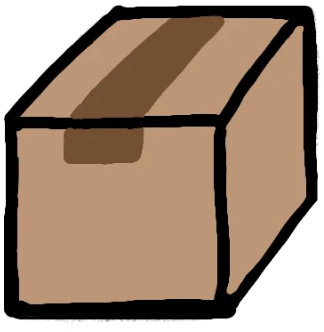
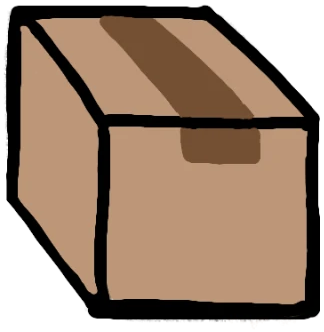
Add steam to trains and fix small UI bugs

diff --git a/src/components/game/GameScreen.tsx b/src/components/game/GameScreen.tsx
@@ -1,6 +1,7 @@
 import { useEffect, useMemo, useState, useRef } from 'react';
 import { Link } from '@tanstack/react-router';
-import { ArrowLeft, Pause, Play, Volume2, VolumeX, Factory, Pickaxe, Trees, Fuel, TrainFront, Undo2, Trash2, Plus, Minus, HelpCircle, X, Package, Coins, Waypoints, ArrowRight, FileChartColumn, ZoomIn, ZoomOut, RotateCw, Clock, Ship, Scan, Network, Mountain, Waves } from 'lucide-react';
+import { ArrowLeft, Pause, Play, Volume2, VolumeX, Factory, Pickaxe, Trees, Fuel, TrainFront, Undo2, Trash2, Plus, Minus, HelpCircle, X, Package, Coins, Waypoints, ArrowRight, FileChartColumn, ZoomIn, ZoomOut, RotateCw, Clock, Ship, Scan, Mountain, Waves } from 'lucide-react';
+import transferSprite from '@/assets/building-transfer.png';
 import { CONFIG } from '@/game/config';
 import { lineColorClass } from '@/shared/line-colors';
 import type { Charter, NetworkMetrics } from '@/shared/types';
@@ -28,14 +29,14 @@ export function GameScreen({charter}:{charter:Charter}){
   <canvas ref={dragImageRef} width={1} height={1} className="native-drag-blank" aria-hidden="true"/>
   <div className="map-stage"><canvas aria-label="Industrial railway map" ref={s.canvasRef} onClick={s.onClick} onPointerDown={s.onPointerDown} onPointerMove={s.onPointerMove} onPointerUp={s.onPointerUp} onPointerCancel={s.cancelTrack} onMouseLeave={s.onLeave} onDragOver={s.onDragOver} onDrop={s.onDrop} className="factory-canvas"/></div>
   <header className="map-header hud">
-   <div className="map-identity"><Link to="/" aria-label="Back to maps" title="Back to maps" className="map-back"><ArrowLeft size={19}/></Link><div><h1>Brassworks Transit</h1><p>{charter.name}</p></div></div>
+   <div className="map-identity"><Link to="/" aria-label="Back to maps" title="Back to maps" className="map-back"><ArrowLeft size={19}/></Link><div><h1>Back On Track</h1><p>{charter.name}</p></div></div>
     <div className="map-counters"><span title="Credits"><Coins size={18}/><strong>{g?.credits??0}</strong></span><span title="Products"><ArtIcon kind="crate" size={18}/><strong>{g?.products??0}</strong></span><span className="week-counter"><ArtIcon kind="clock" size={18}/><strong>Week {g?.week??1}</strong><span>{Math.max(0,Math.ceil(CONFIG.week.seconds-(g?.weekTime??0)))}s</span><progress className="factory-progress" value={g?.weekTime??0} max={CONFIG.week.seconds}/></span></div>
    <div className="map-actions">{route&&<><span className={`route-indicator ${lineColorClass(g?.railLines().findIndex(l=>l.id===route.id)??0)}`} title={route.name}/><div className="line-stock-controls" aria-label="Line trains"><Btn title="Remove locomotive" disabled={!route.trains.length} onClick={()=>s.act(gg=>gg.removeTrain(route.id))}><Minus size={13}/></Btn><div className="line-stock-count"><ArtIcon kind="train" size={18}/><small aria-label="Trains on selected line">{route.trains.length}</small></div><Btn title="Add locomotive" disabled={route.stops.length<2||!g?.inv.locomotives} onClick={()=>s.act(gg=>gg.addTrain(route.id))}><Plus size={13}/></Btn></div><div className="line-stock-controls" aria-label="Line carriages"><Btn title="Remove wagon" disabled={!route.carriages} onClick={()=>s.act(gg=>gg.removeCarriage(route.id))}><Minus size={13}/></Btn><div className="line-stock-count"><ArtIcon kind="carriage" size={18}/><small aria-label="Carriages on selected line">{route.carriages}</small></div><Btn title="Add wagon" disabled={route.stops.length<2||!g?.inv.carriages} onClick={()=>s.act(gg=>gg.addCarriage(route.id))}><Plus size={13}/></Btn></div></>}<Btn title={`Buy train · ${CONFIG.factory.locomotiveCost} credits`} aria-label="Buy train" className="buy-train" disabled={!g||g.credits<CONFIG.factory.locomotiveCost} onClick={()=>s.act(gg=>gg.buyTrain(),"Train added to your supplies.")}><ArtIcon kind="train" size={17}/><Coins size={12}/><small>{CONFIG.factory.locomotiveCost}</small></Btn>
 <Btn title="Sell purchased spare train" aria-label="Sell purchased train" disabled={!g?.trainSale} onClick={s.sellTrain}><ArtIcon kind="train" size={17}/><Minus size={12}/><Coins size={12}/></Btn><Btn title="Undo most recent action" disabled={!g?.canUndo} onClick={s.undo}><Undo2 size={18}/></Btn><Btn title={selected&&selected.type!=='company'?`Remove collector · ${g?.collectorRefund(selected.index)??0} credits refunded`:"Remove selected transport connection"} aria-label="Remove selected item" disabled={selected&&selected.type!=='company'?g?.phase==='complete':!s.selectedTrack||!g?.canRemoveSegment(s.selectedTrack.line,s.selectedTrack.segment)} onClick={s.deleteTrack}><Trash2 size={18}/></Btn><Btn title={s.paused?'Resume':'Pause'} onClick={()=>s.setPaused(!s.paused)}>{s.paused?<Play size={19}/>:<Pause size={19}/>}</Btn><Btn title="Simulation speed" onClick={()=>s.setSpeed(s.speed===3?1:s.speed+1)}>{s.speed}×</Btn><Btn title={s.muted?'Enable sound':'Mute sound'} onClick={()=>s.setMuted(!s.muted)}>{s.muted?<VolumeX size={18}/>:<Volume2 size={18}/>}</Btn><Btn title="Guided tutorial" onClick={s.startTutorial}><HelpCircle size={18}/></Btn><Btn title="Industrial report" onClick={()=>{if(g){s.setPaused(true);setReport(g.metrics());}}}><FileChartColumn size={18}/></Btn></div>
   </header>
   <nav className="collector-tools hud" aria-label="Collection facilities">
    {RAW_MATERIALS.map(material=>{return <Btn key={material} title={`${GOODS[material].label} collector · ${g?.facilityCost(material)===0?`${g.gifts.collectors} free`:`${CONFIG.factory.hubCost} credits`}`} aria-label={`${material} collector`} draggable disabled={g?g.hubsAvailable<1||g.credits<g.facilityCost(material):false} variant={s.tool.kind==='hub'&&s.tool.material===material?'brass':'ghost'} onClick={()=>{s.setTool({kind:'hub',material});if(s.tutorial===TUTORIAL.collector&&material==='timber')s.setTutorial(TUTORIAL.place);}} onDragStart={e=>{if(dragImageRef.current)e.dataTransfer.setDragImage(dragImageRef.current,0,0);e.dataTransfer.setData('application/brassworks-material',material);s.setTool({kind:'hub',material});if(s.tutorial===TUTORIAL.collector&&material==='timber')s.setTutorial(TUTORIAL.place);}}><GoodIcon good={material} size={25}/><small className="facility-cost">{g?.facilityCost(material)===0?<span className="free-count">{g.gifts.collectors} FREE</span>:<><Coins size={10}/>{CONFIG.factory.hubCost}</>}</small></Btn>;})}
-   <Btn title={`Transfer station · ${CONFIG.factory.transferCost} credits`} aria-label="Transfer station" disabled={g?g.credits<CONFIG.factory.transferCost:false} variant={s.tool.kind==='hub'&&s.tool.material==='transfer'?'brass':'ghost'} onClick={()=>s.setTool({kind:'hub',material:'transfer'})} draggable onDragStart={e=>{if(dragImageRef.current)e.dataTransfer.setDragImage(dragImageRef.current,0,0);e.dataTransfer.setData('application/brassworks-material','transfer');s.setTool({kind:'hub',material:'transfer'});}}><Network size={25}/><small className="facility-cost"><Coins size={10}/>{CONFIG.factory.transferCost}</small></Btn>
+   <Btn title={`Transfer station · ${CONFIG.factory.transferCost} credits`} aria-label="Transfer station" disabled={g?g.credits<CONFIG.factory.transferCost:false} variant={s.tool.kind==='hub'&&s.tool.material==='transfer'?'brass':'ghost'} onClick={()=>s.setTool({kind:'hub',material:'transfer'})} draggable onDragStart={e=>{if(dragImageRef.current)e.dataTransfer.setDragImage(dragImageRef.current,0,0);e.dataTransfer.setData('application/brassworks-material','transfer');s.setTool({kind:'hub',material:'transfer'});}}><img src={transferSprite} width={25} height={25} draggable={false} style={{objectFit:'contain'}} alt=""/><small className="facility-cost"><Coins size={10}/>{CONFIG.factory.transferCost}</small></Btn>
     <span className="tool-divider"/><Btn title="Production recipes" onClick={()=>setPrimer(true)}><ArtIcon kind="machinery" size={24}/></Btn><Btn title="Company orders" aria-label="Company orders" aria-expanded={orders} variant={orders?'brass':'ghost'} onClick={()=>{setOrders(!orders);if(s.tutorial===TUTORIAL.orders&&!orders)s.setTutorial(TUTORIAL.orders+1);}}><ArtIcon kind="crate" size={24}/></Btn>
   </nav>
   <nav className="route-tools hud" aria-label="Freight routes">{g?.railLines().map((l,index)=><Btn key={l.id} title={`${l.name} · ${l.segments.length===0?'New line':`${l.stops.length} stops`}`} aria-label={l.name} aria-pressed={s.tool.kind==='rail'&&s.tool.line===l.id} className={`route-swatch ${lineColorClass(index)} ${l.segments.length===0?'route-unused':''}`} onClick={()=>{s.setTool({kind:'rail',line:l.id});if(s.tutorial===TUTORIAL.route)s.setTutorial(TUTORIAL.drag);}}><span/><small>{l.id+1}</small></Btn>)}<span className="tool-divider"/><Btn title={`Build tunnel · ${g?.inv.tunnels??0} available`} aria-label="Build tunnel" disabled={!g?.inv.tunnels} variant={s.tool.kind==='crossing'&&s.tool.crossing==='tunnel'?'brass':'ghost'} onClick={()=>s.setTool({kind:'crossing',crossing:'tunnel',line:route?.id??null})}><ArtIcon kind="tunnel" size={23}/></Btn><Btn title={`Build bridge · ${g?.inv.bridges??0} available`} aria-label="Build bridge" disabled={!g?.inv.bridges} variant={s.tool.kind==='crossing'&&s.tool.crossing==='bridge'?'brass':'ghost'} onClick={()=>s.setTool({kind:'crossing',crossing:'bridge',line:route?.id??null})}><ArtIcon kind="bridge" size={23}/></Btn><Btn title={`River freight · ${g?.boats??0} boats available`} aria-label="River freight" disabled={!g?.boats} variant={s.tool.kind==='boat'?'brass':'ghost'} onClick={()=>s.setTool({kind:'boat',from:null})}><ArtIcon kind="boat" size={23}/></Btn><Btn title={`Pneumatic link · ${g?.inv.tubes??0} available`} disabled={!g?.inv.tubes} variant={s.tool.kind==='tube'?'brass':'ghost'} onClick={()=>s.setTool({kind:'tube',from:null})}><ArtIcon kind="tube" size={23}/></Btn></nav>

diff --git a/src/game/render/factory-renderer.ts b/src/game/render/factory-renderer.ts
@@ -103,7 +103,7 @@ export class FactoryRenderer {
   if(this.game.time-this.puffTime>.15){this.puffs.push({x:head.x,y:head.y,born:this.game.time});this.puffTime=this.game.time;}
   return true;
  }
- private building(p:Pt,kind:string,_rotation=0){const c=this.ctx,image=this.sprites[kind],h=F.buildingHalfWidth;c.save();c.translate(...p);c.transform(...ISO_INV);c.fillStyle=P.shadow;c.beginPath();c.ellipse(0,h*.35,h*1.05,h*.42,0,0,Math.PI*2);c.fill();if(image?.complete&&image.naturalWidth>0)c.drawImage(image,-h*1.1,-h*1.55,h*2.2,h*2.2);else this.icon([0,-h*.4],kind,40);c.restore();}
+ private building(p:Pt,kind:string,_rotation=0){const c=this.ctx,image=this.sprites[kind],h=F.buildingHalfWidth;c.save();c.translate(...p);c.transform(...ISO_INV);if(image?.complete&&image.naturalWidth>0)c.drawImage(image,-h*1.1,-h*1.55,h*2.2,h*2.2);else this.icon([0,-h*.4],kind,40);c.restore();}
   private node(s:FactoryNode,o:FactoryOverlay){const c=this.ctx,g=this.game,[x,y]=s.pos;c.save();if(s.index===o.selectedNode||s.index===o.tutorialTarget||s.index===o.tutorialSource){c.strokeStyle=P.output;c.lineWidth=3;c.setLineDash([5,5]);c.strokeRect(x-56,y-56,112,112);c.setLineDash([]);}if(o.draftPath?.length&&o.hover){const snap=g.portAt(o.hover,'input');if(snap?.index===s.index){const p=g.portPosition(s.index,'input',snap.slot);c.beginPath();c.arc(...p,17,0,Math.PI*2);c.strokeStyle=P.input;c.lineWidth=3;c.stroke();}}const orders=g.contracts.filter(order=>order.company===s.index&&order.status==='open');if(orders.length){c.save();c.strokeStyle=P.brass;c.shadowColor=P.brass;c.shadowBlur=18;c.lineWidth=5;c.beginPath();c.ellipse(x,y,66,60,0,0,Math.PI*2);c.stroke();c.restore();}this.building(s.pos,s.type==='transfer'?'transfer':s.companyKind??s.material??'iron',s.rotation??0);
    if(orders.length||s.index===o.selectedNode||s.index===o.tutorialTarget||s.index===o.tutorialSource){c.save();c.translate(x,y);c.transform(...ISO_INV);c.font='bold 15px Arial';c.textAlign='center';const label=orders.length?`#${orders.map(order=>order.id).join(' · #')}  ${s.name}`:s.name,w=c.measureText(label).width+20;c.fillStyle=P.station;c.strokeStyle=orders.length?P.brass:P.output;c.lineWidth=2;c.beginPath();c.roundRect(-w/2,-100,w,26,4);c.fill();c.stroke();c.fillStyle=P.ink;c.fillText(label,0,-82);if(s.index===o.tutorialTarget||s.index===o.tutorialSource){c.fillStyle=P.output;c.beginPath();c.moveTo(0,-48);c.lineTo(-9,-64);c.lineTo(9,-64);c.closePath();c.fill();}c.restore();}
   for(const side of ['input','output'] as const)for(let i=0;i<g.portCapacity(s,side);i++){const [px,py]=g.portPosition(s.index,side,i),occupied=g.portOccupied(s.index,side,i),color=side==='input'?P.input:P.output;c.beginPath();c.arc(px,py,9,0,Math.PI*2);c.fillStyle=P.station;c.fill();c.strokeStyle=color;c.lineWidth=3;c.stroke();c.beginPath();c.arc(px,py,occupied?6:4,0,Math.PI*2);c.fillStyle=color;c.fill();}

diff --git a/src/components/game/Sidebar.tsx b/src/components/game/Sidebar.tsx
@@ -11,7 +11,7 @@ export function Sidebar({game:g,name,tool,setTool,act,message,onPrimer,onEnd,sel
   const node=selected===null?null:g.stations[selected];
   return <aside className="brass-frame flex w-full shrink-0 flex-col gap-4 bg-card/70 p-4 lg:max-h-[calc(100vh-1.5rem)] lg:w-80 lg:overflow-y-auto">
     <div className="flex items-center justify-between"><Link to="/" className="label-caps text-xs text-muted-foreground">← Charters</Link><Btn onClick={onPrimer} title="Production recipes"><Factory size={16}/></Btn></div>
-    <div><p className="label-caps text-[10px] text-verdigris">Industrial charter</p><h1 className="font-display text-xl text-brass">{name}</h1><p className="text-sm italic text-muted-foreground">Brassworks · Supply & Steam</p></div>
+    <div><p className="label-caps text-[10px] text-verdigris">Industrial charter</p><h1 className="font-display text-xl text-brass">{name}</h1><p className="text-sm italic text-muted-foreground">Supply & Steam</p></div>
     <div><div className="flex justify-between"><span className="font-display">Week {g.week} / {CONFIG.week.total}</span><span className="label-caps text-xs text-muted-foreground">{Math.max(0,Math.ceil(CONFIG.week.seconds-g.weekTime))}s</span></div><progress className="factory-progress mt-1 w-full" value={g.weekTime} max={CONFIG.week.seconds}/></div>
     <div className="grid grid-cols-3 gap-1"><Stat label="Credits" value={g.credits}/><Stat label="Products" value={g.products}/><Stat label="Delivered" value={g.delivered}/></div>
     <Panel title="Collection facilities" aside={<span className="label-caps text-[10px] text-muted-foreground">{g.hubsAvailable} available · {CONFIG.factory.hubCost} cr</span>}>

diff --git a/src/routes/index.tsx b/src/routes/index.tsx
@@ -9,11 +9,11 @@ import airship from '@/assets/charter-airship.png';
 export const Route = createFileRoute("/")({
   head: () => ({
     meta: [
-      { title: "Brassworks Transit — Choose Your Charter" },
+      { title: "Back On Track — Choose Your Charter" },
       { name: "description", content: "A factory rail-logistics game on seeded industrial worlds." },
       { property: "og:type", content: "website" },
       { name: "twitter:card", content: "summary_large_image" },
-      { property: "og:title", content: "Brassworks Transit" },
+      { property: "og:title", content: "Back On Track" },
       { property: "og:description", content: "Connect. Supply. Produce." },
     ],
   }),
@@ -37,8 +37,8 @@ function Index() {
       <div className="relative mx-auto grid max-w-6xl gap-12 px-8 py-16 lg:grid-cols-2 lg:items-center">
         <section>
           <p className="label-caps text-xs text-brass">Factory logistics</p>
-          <h1 className="mt-3 font-display text-4xl font-bold text-brass md:text-5xl">BRASSWORKS</h1>
-          <p className="font-display text-4xl  text-foreground">TRANSIT</p>
+          <h1 className="mt-3 font-display text-4xl font-bold text-brass md:text-5xl">BACK ON TRACK</h1>
+
           <div className="my-6 flex items-center gap-3 text-brass"><span className="h-px flex-1 bg-brass/50" />◆<span className="h-px flex-1 bg-brass/50" /></div>
           <p className="text-2xl italic">Connect. Supply. Produce.</p>
           <p className="mt-3 max-w-md text-lg text-muted-foreground">

diff --git a/src/routes/how-it-works.tsx b/src/routes/how-it-works.tsx
@@ -4,11 +4,11 @@ import { RECIPES, GOODS, type Commodity } from "@/shared/factory";
 export const Route = createFileRoute("/how-it-works")({
   head: () => ({
     meta: [
-      { title: "How the Works Work — Brassworks Transit" },
+      { title: "How the Works Work — Back On Track" },
       { name: "description", content: "Factory logistics rules: collection hubs, freight railways, production chains and company contracts." },
       { property: "og:type", content: "website" },
       { name: "twitter:card", content: "summary_large_image" },
-      { property: "og:title", content: "How the Works Work — Brassworks Transit" },
+      { property: "og:title", content: "How the Works Work — Back On Track" },
       { property: "og:description", content: "Learn how to supply industrial companies on generated industrial worlds." },
     ],
   }),

diff --git a/src/routes/play.$map.tsx b/src/routes/play.$map.tsx
@@ -15,11 +15,11 @@ export const Route = createFileRoute("/play/$map")({
   },
   head: ({ loaderData }) => ({
     meta: [
-      { title: `${loaderData?.name ?? "Survey"} — Brassworks Transit` },
+      { title: `${loaderData?.name ?? "Survey"} — Back On Track` },
       { name: "description", content: `Build an industrial freight network in the generated world of ${loaderData?.name ?? "the city"}.` },
       { property: "og:type", content: "website" },
       { name: "twitter:card", content: "summary_large_image" },
-      { property: "og:title", content: `${loaderData?.name ?? "Survey"} — Brassworks Transit` },
+      { property: "og:title", content: `${loaderData?.name ?? "Survey"} — Back On Track` },
       { property: "og:description", content: "Collect resources, supply companies and fulfill industrial contracts." },
     ],
   }),

diff --git a/src/backend/services/scenario.server.ts b/src/backend/services/scenario.server.ts
@@ -3,7 +3,7 @@ import type { Scenario } from "@/shared/types";
 import { askJson } from "./ai.server";
 import { findCharter, landUseDigest } from "./maps.server";
 
-const SYSTEM = `You are the scenario writer for "Brassworks Transit", a Gilded Age steampunk transit game on real maps.
+const SYSTEM = `You are the scenario writer for "Back On Track", a Gilded Age steampunk transit game on real maps.
 Given real districts and land use, rename each district as a steampunk structure (max 5 words), write one-sentence lore,
 choose demand weights (0.6-1.6) for commuter/student/shopper, and invent exactly 3 timed events at weeks 2, 4 and 6
 that cause a demand surge at a district (multiplier 2-4, duration 20-35 seconds).

diff --git a/src/routes/__root.tsx b/src/routes/__root.tsx
@@ -74,7 +74,7 @@ export const Route = createRootRouteWithContext<{ queryClient: QueryClient }>()(
     meta: [
       { charSet: "utf-8" },
       { name: "viewport", content: "width=device-width, initial-scale=1" },
-      { title: "Brassworks Transit" },
+      { title: "Back On Track" },
       { name: "description", content: "A factory rail-logistics game on seeded industrial worlds." },
       { property: "og:type", content: "website" },
       { name: "twitter:card", content: "summary_large_image" },
